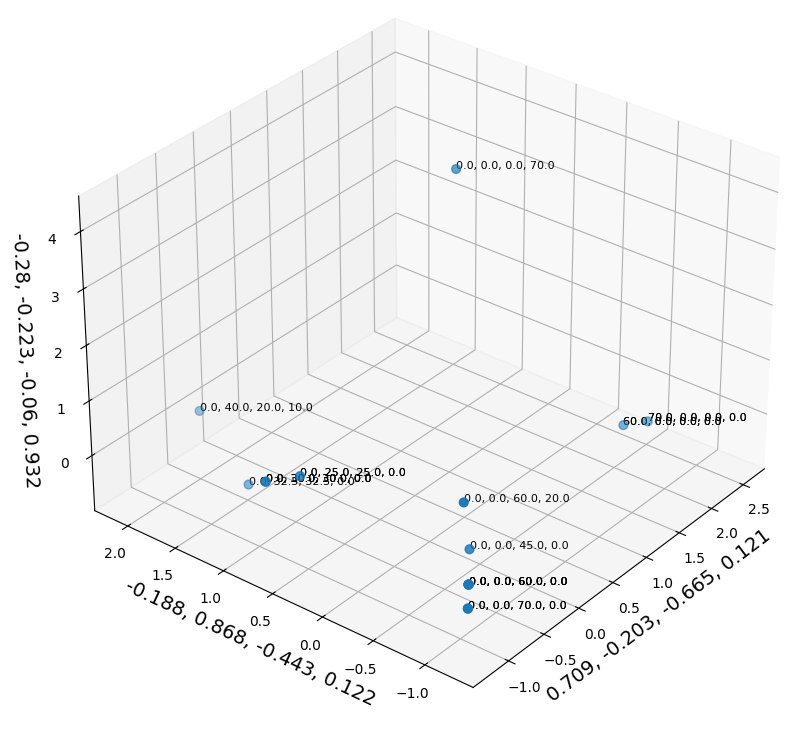
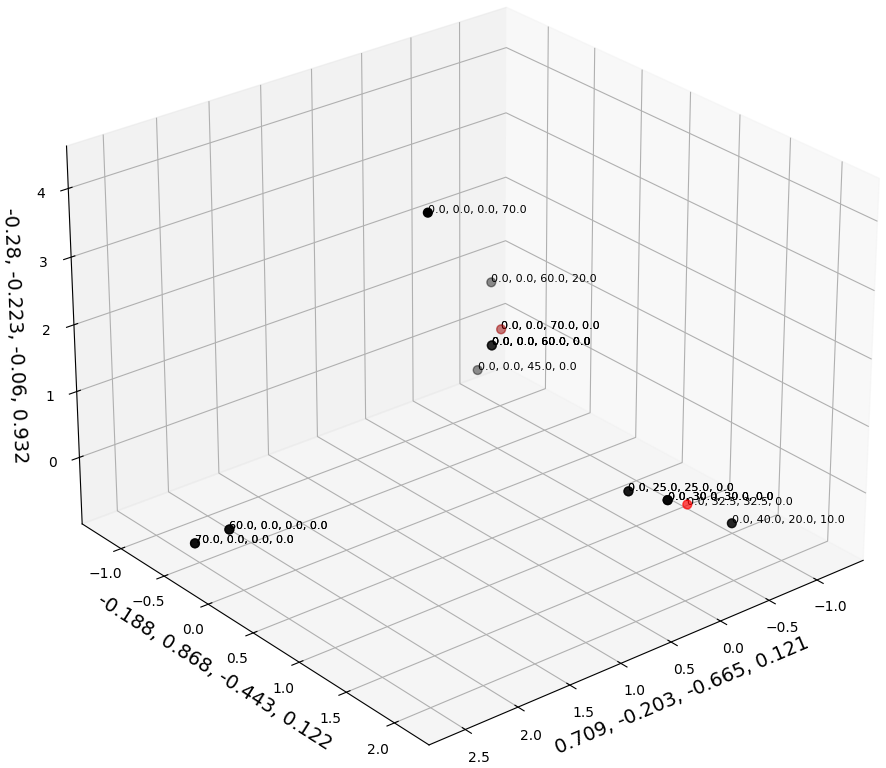
updated visu

diff --git a/visualize_data.py b/visualize_data.py
@@ -25,11 +25,11 @@ fig = plt.figure(figsize=(7,5))
 ax = fig.add_subplot(111, projection='3d')
 
 fig.patch.set_facecolor('white')
-ax.scatter(Xax, Yax, Zax, s=40)
+ax.scatter(Xax, Yax, Zax, s=40, c=["k" if data[i][15]==0 else 'r' for i in range(len(data))])
 
 # labels
 for i in range(len(Xax)):
-  ax.text(Xax[i], Yax[i], Zax[i], ', '.join(attributes[i].astype('str'))+" "+str(data[i][15]==1), size=8, zorder=1, color='k') 
+  ax.text(Xax[i], Yax[i], Zax[i], ', '.join(attributes[i].astype('str')), size=8, zorder=1, color='k') 
   
 # for loop ends
 ax.set_xlabel(', '.join(np.round(pca.components_[0], decimals=3).astype('str')), fontsize=14)
